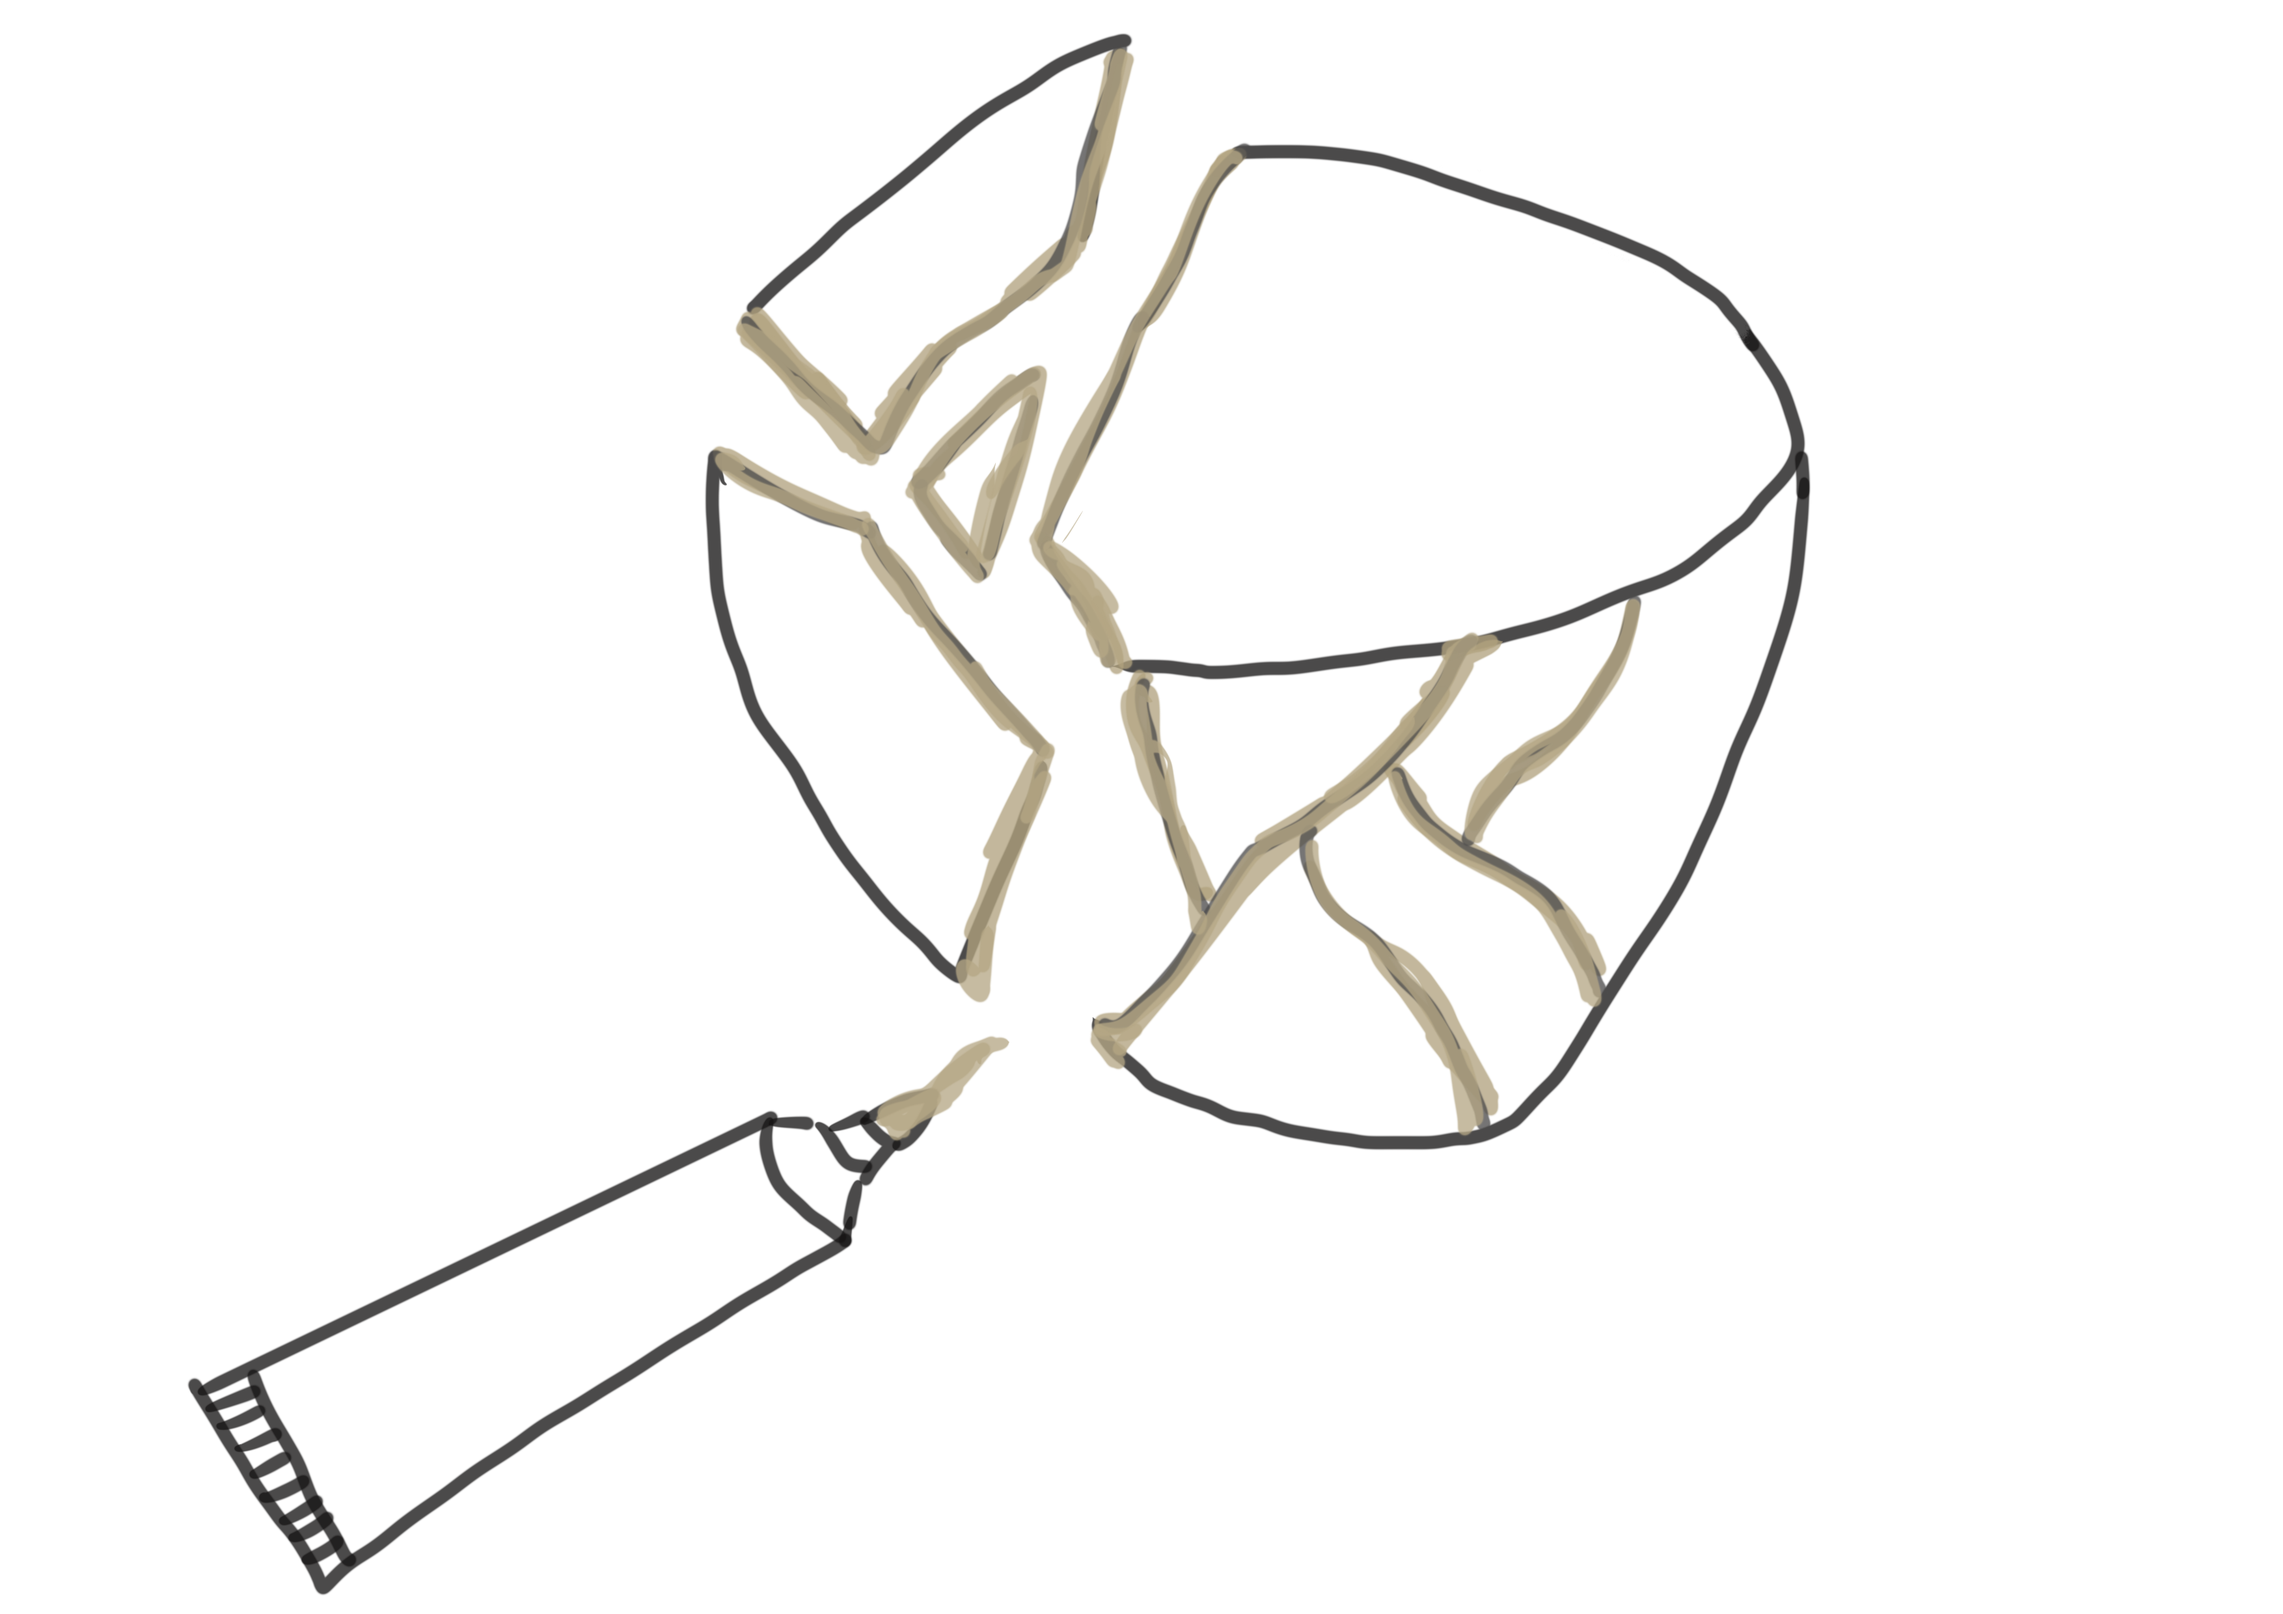
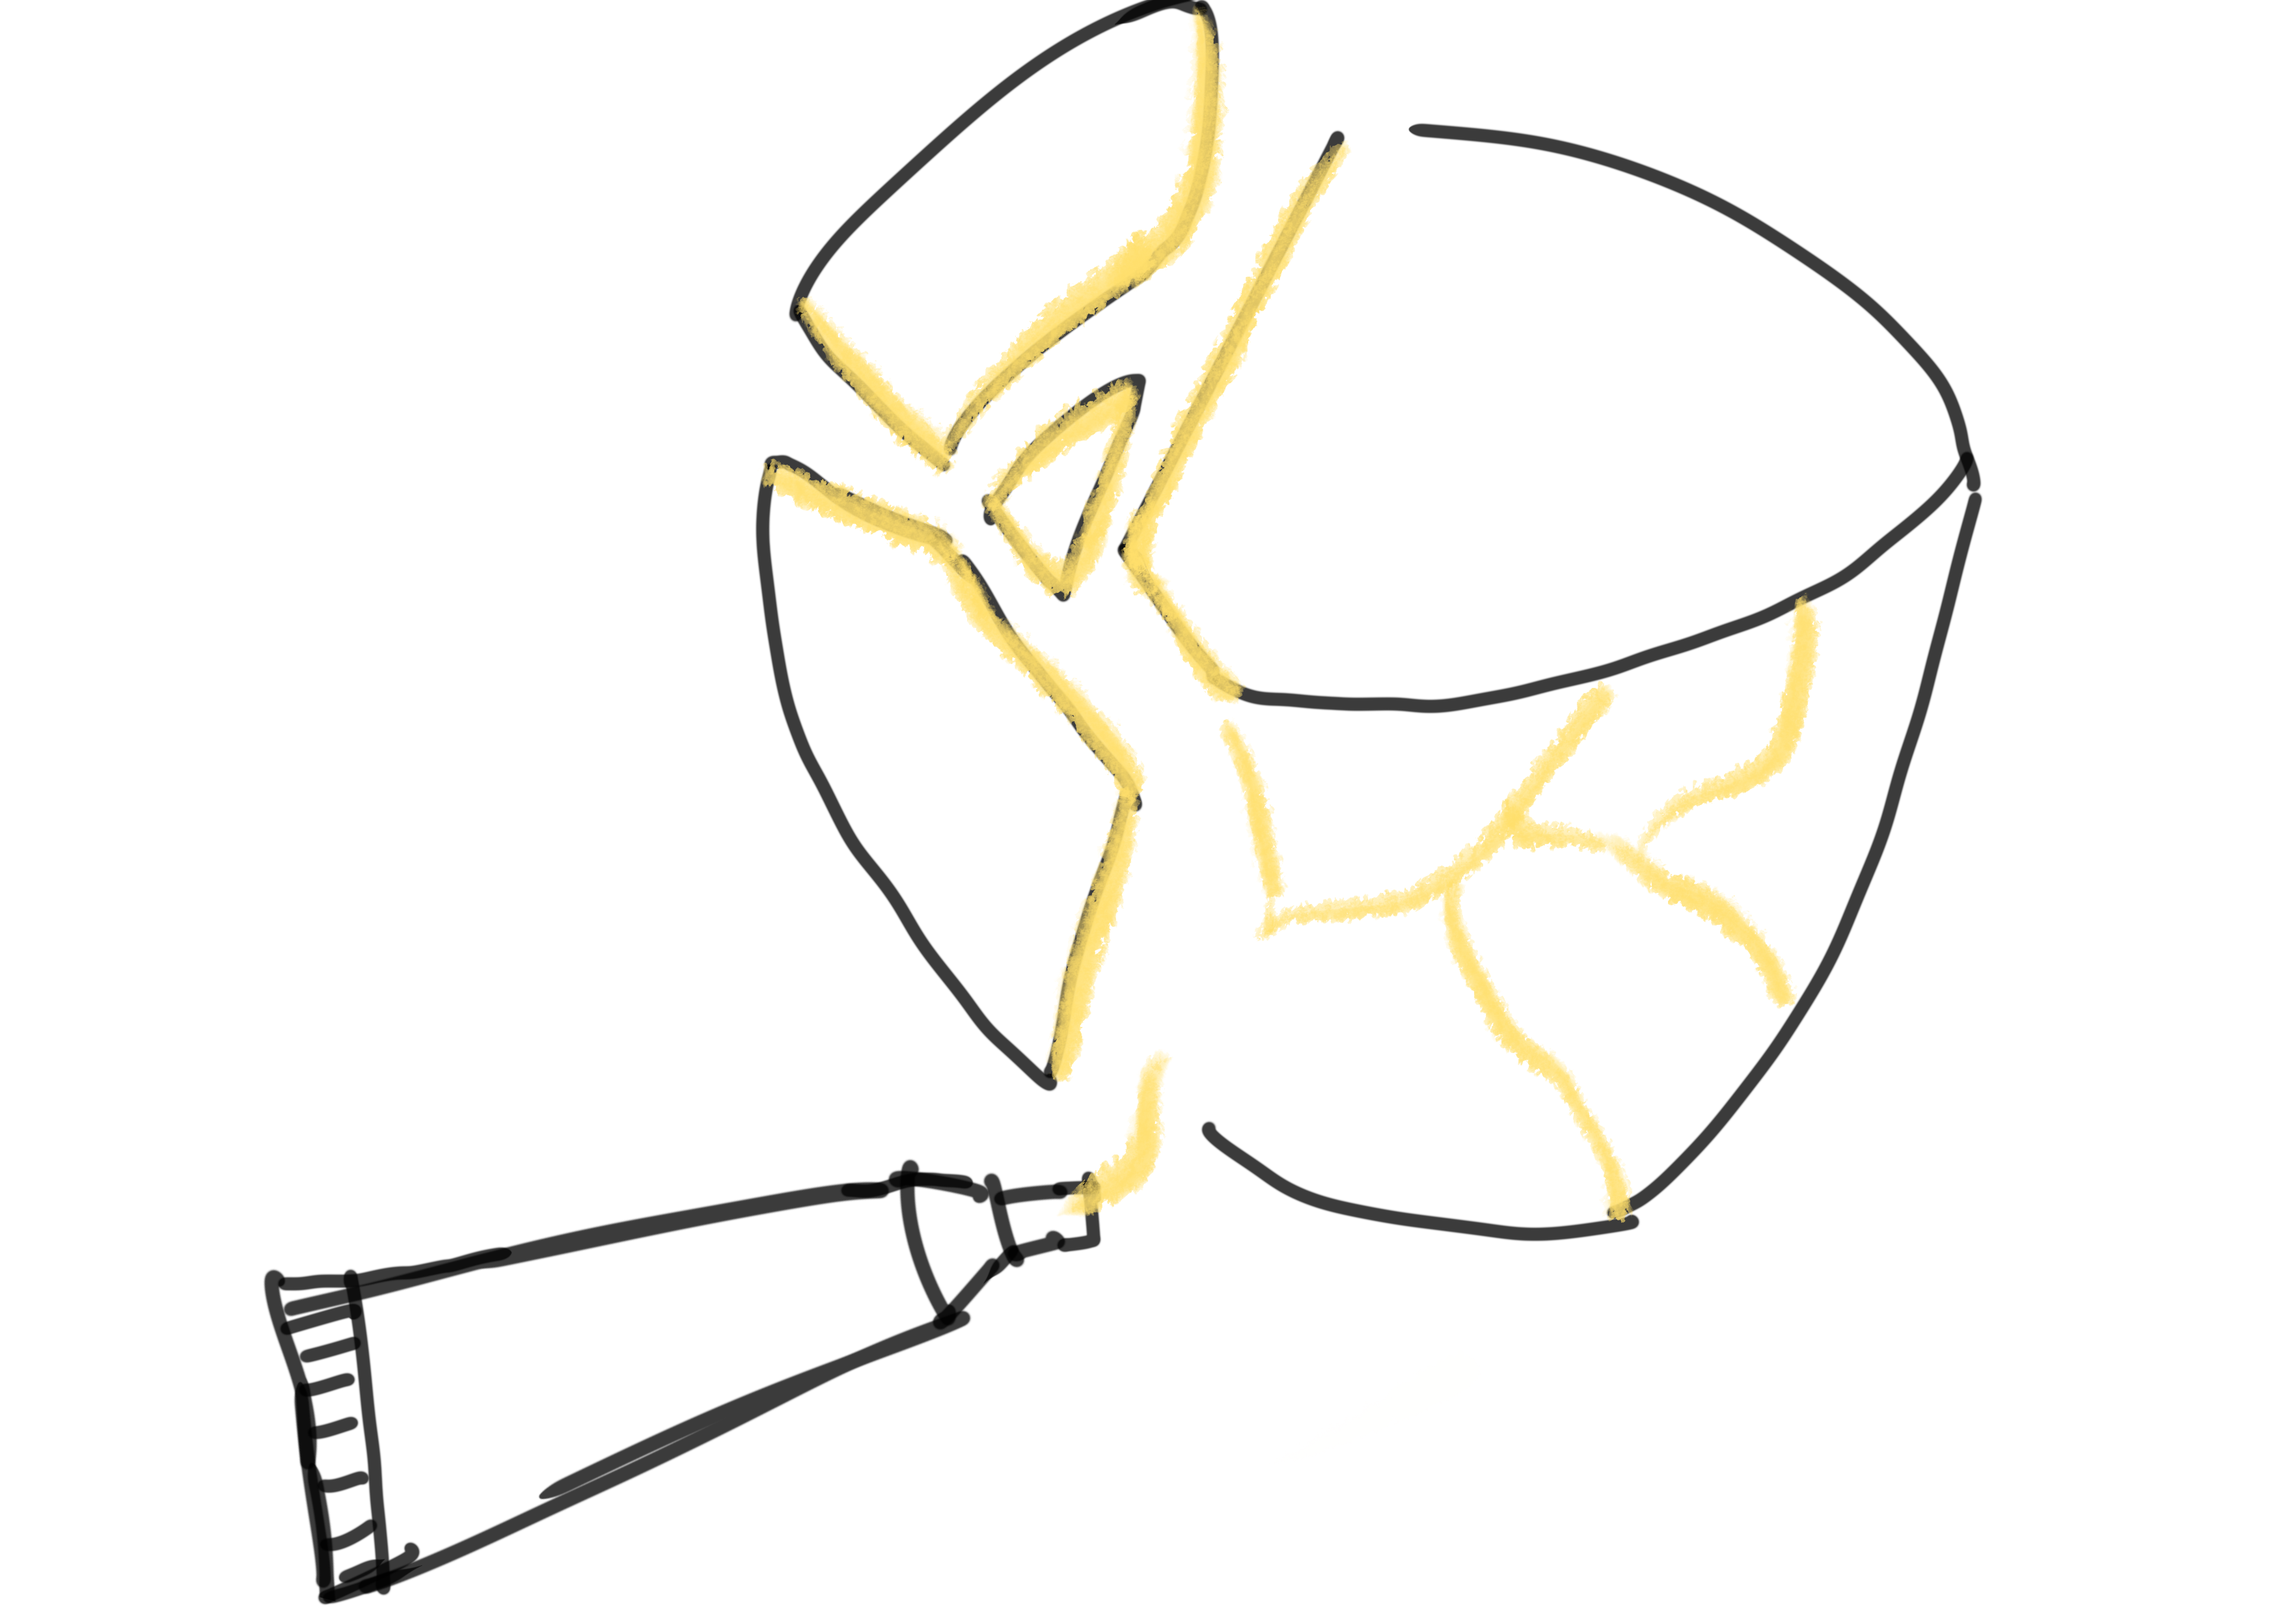
change process

diff --git a/Process.html b/Process.html
@@ -69,7 +69,11 @@
         <!-- 左边：文字 -->
         <div class="text">
             <h2>REPAIR</h2>
-        </div>
+            <P>Fill missing areas: mix thicker lacquer paste to rebuild chips or missing sections. Sculpt the fill to match the shape roughly; don’t worry about finish at this stage.</P>
+            <p>Build up layers: traditional kintsugi often requires several cycles: apply lacquer, let it cure, sand to shape, then apply more paste until the surface integrates with the original form.</p>
+            <p>Final lacquer coat: apply a smooth final layer of clear urushi over the seams and filled areas to create an even surface for gilding.</p>
+            <p>Sand the filled areas smooth, stepping through finer grits to blend with the original ceramic surface.</p>
+          </div>
         <div class="middle_line">
 
         </div>
@@ -83,6 +87,7 @@
         <!-- 左边：文字 -->
         <div class="text">
             <h2>REVEAL</h2>
+            <p>While the final lacquer is still tacky (or by using a special adhesive called nashiji process), dust powdered gold lightly into the lacquer or lay gold leaf. Tap off excess gently. For brighter seams, repeat gilding layers as desired.</p>
         </div>
         <div class="middle_line">
 
@@ -98,6 +103,7 @@
         <!-- 左边：文字 -->
         <div class="text">
             <h2>SUBLIMATE</h2>
+            <p>After the metallic layer has set, polish gently. Optionally brush a thin clear topcoat of epoxy or lacquer.</p>
         </div>
         <div class="middle_line">
 
